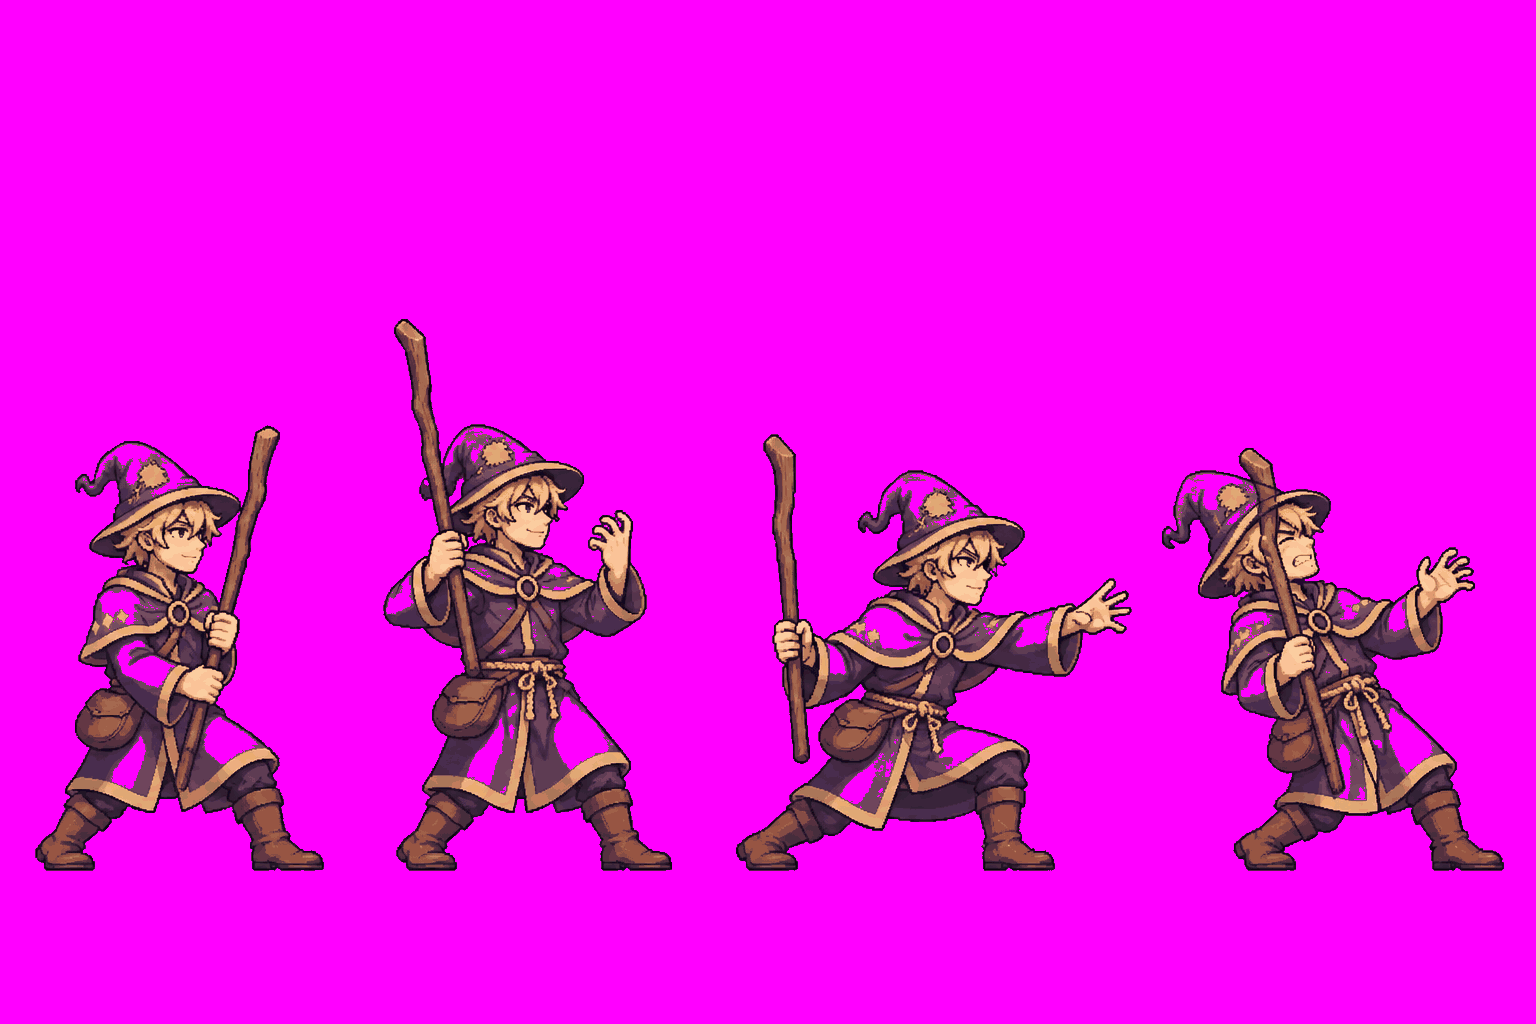
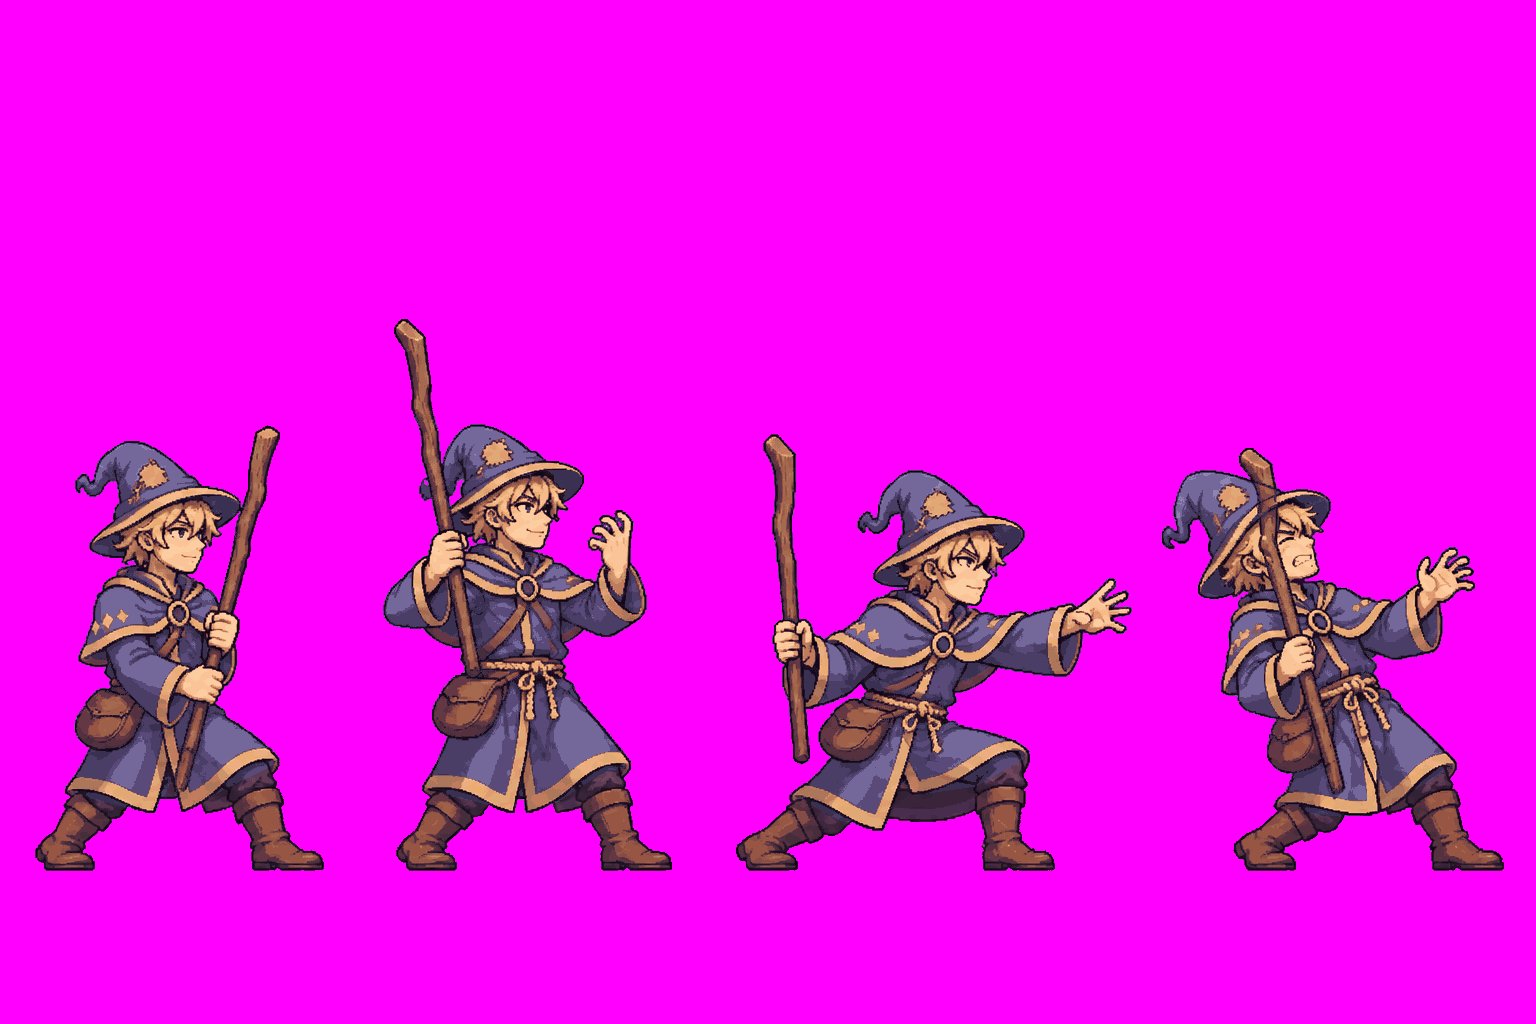
Restore Felix robe and hat with key-safe blue-purple shading

diff --git a/art/inbox/NOTES.md b/art/inbox/NOTES.md
@@ -120,3 +120,9 @@
 64px 크기에서 장비와 네 동작을 비교했다. 다음 수정 후보는 지휘봉의 금색 손잡이와 역수 단검의 날로, 작은 화면에서 더 선명하게 읽힐지 게임 배경 위에서 살펴볼 부분이다.
 
 추가 시트 `sheet_captain_lancer_mounted.png`에는 로드릭이 군마에 오른 대기·준비·돌격·피격을 2×2로 배치했다. 각 자세의 군마 머리는 하나이며, 각 칸의 발굽 기준선은 칸 위에서 y=461이다. 게임 미사용 예비 그림이다.
+
+## 3단계 — 펠릭스 다시 그리기
+
+기존 `sheet_captain_hedgemage.png`에 원본의 천 명암을 맞춰 로브와 모자를 청보라 5단계(#3a3052, #4a3e66, #5a4a7a, #74679a, #8f84b0)로 다시 칠했다. 밝은 천이 배경 키로 빠진 부분도 복원했다. 네 자세와 배치·접지선(y=870)은 유지했고 황토색 장식 선도 보존했다.
+
+지정 플러드필 검사에서 남은 픽셀은 23,937개에서 1,937개로 줄었다. 마스크와 배경을 제거한 그림을 대조해 남은 빈틈을 확인했다. 최종 인물색과 배경 키의 최소 RGB 거리는 190.29다.
